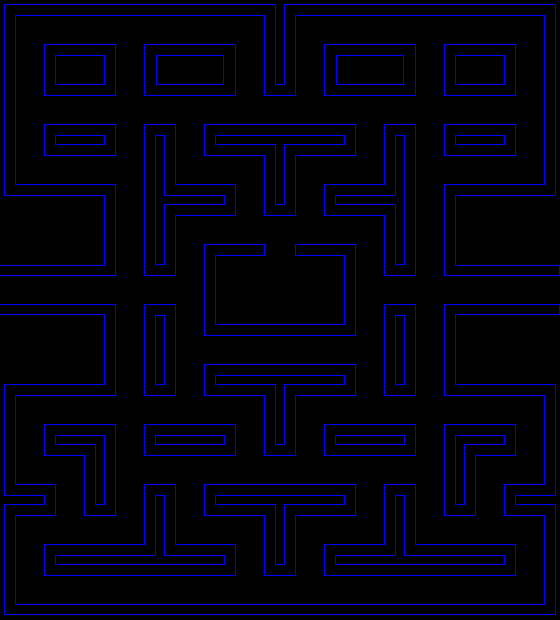
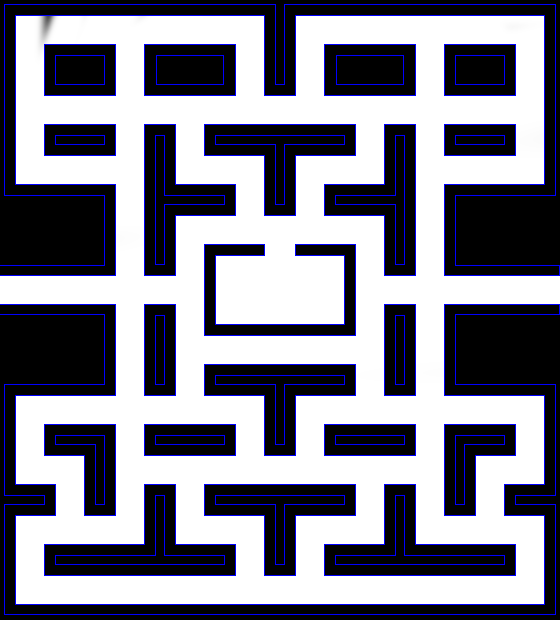
quebrado

diff --git a/MyPacman/Class/player.py b/MyPacman/Class/player.py
@@ -1,4 +1,4 @@
-from pygame import sprite
+from pygame import sprite, mask
 from pygame.math import Vector2 as vec
 from pygame import KEYDOWN,\
     K_LEFT, K_a, K_RIGHT, K_d, K_UP, K_w, K_DOWN, K_s
@@ -13,22 +13,21 @@ class player_pacman(sprite.Sprite):
 
         #################################
         # /player's absolute variables\ #
-        self.image = img.load(image).convert_alpha()
+        self.image = img.load(image).convert()
         self.image = tfm.scale(self.image, (17, 17))
+
+        self.mask = mask.from_surface(self.image)
 
         self.rect = self.image.get_rect()
 
         self.grid_pos: vec = v.PLAYER_START_POS
-        self.direction: vec = vec(-1, 0)
-
         self.pix_pos = self.get_pix_pos()
-        self.move_: bool = False
+
+        self.direction: vec = vec(1, 0)
 
         self.Stored_direction = None
         self.able_to_move: bool = True
-
-        self.rect[0] = self.pix_pos.x
-        self.rect[1] = self.pix_pos.y
+        self.togle_to_move = True
         # \player's absolute variables/ #
         #################################
 
@@ -40,6 +39,7 @@ class player_pacman(sprite.Sprite):
             (self.pix_pos[1] + v.WIDTH_CELL // 2) // v.WIDTH_CELL
 
         # Add current player position
+        self.move_update()
         self.rect[0] = self.pix_pos.x
         self.rect[1] = self.pix_pos.y
 
@@ -61,33 +61,24 @@ class player_pacman(sprite.Sprite):
     def move(self, direction):
         self.Stored_direction = direction
 
-    def move_update(self, wall_collision: list):
+    def move_update(self):
         # Character direction
-        if self.able_to_move:
+        if self.togle_to_move:
             self.pix_pos += self.direction
+        else:
+            self.move(vec(0, 1))
 
-        if self.time_to_move('x'):  # Move back or forward
-            if self.Stored_direction is not None:
-                self.direction = self.Stored_direction
-            self.able_to_move = self.can_move(wall_collision)
-        if self.time_to_move('y'):  # Move up or down
-            if self.Stored_direction is not None:
-                self.direction = self.Stored_direction
-            self.able_to_move = self.can_move(wall_collision)
+        self.time_to_move()
 
-    def can_move(self, wall_collision: list) -> bool:
-        for wall in wall_collision:  # Makes the collision with the wall
-            if vec(self.grid_pos + self.direction) == wall:
-                return False
-        return True
-
-    def time_to_move(self, dirc: str) -> bool:  # Check if the player can move
-        if (self.pix_pos.x + 40 // 2) % v.WIDTH_CELL == 1 and dirc == 'x':
+    def time_to_move(self):  # Check if the player can move
+        if (self.pix_pos.x + 40 // 2) % v.WIDTH_CELL == 1:
             if self.direction == vec(1, 0) or self.direction == vec(-1, 0):
-                return True
-        if (self.pix_pos.y + 40 // 2) % v.HEIGHT_CELL == 1 and dirc == 'y':
+                if self.Stored_direction is not None:
+                    self.direction = self.Stored_direction
+        if (self.pix_pos.y + 40 // 2) % v.HEIGHT_CELL == 1:
             if self.direction == vec(0, 1) or self.direction == vec(0, -1):
-                return True
+                if self.Stored_direction is not None:
+                    self.direction = self.Stored_direction
 
     def get_pix_pos(self) -> vec:  # Grid pos player
         return vec(self.grid_pos.x * v.WIDTH_CELL + 2,

diff --git a/MyPacman/Oh_Pacman.py b/MyPacman/Oh_Pacman.py
@@ -1,4 +1,5 @@
 import pygame
+from pygame.sprite import groupcollide
 import vars as v
 
 import Class.texts as t
@@ -84,6 +85,7 @@ class World:  # A World l
     def World_objcts(self):
         # Add in World
         self.Itens_world['Sprites_world'] = pygame.sprite.Group()
+        self.Itens_world['Background_world'] = pygame.sprite.Group()
 
         self.World_time()
 
@@ -139,6 +141,8 @@ class World:  # A World l
             self.World_pacman_update()
             # \absolute defs of the game/ #
             #####################################
+
+            self.Itens_world['Background_world'].update()
 
             pygame.display.flip()
             pygame.display.update()
@@ -317,7 +321,7 @@ class World:  # A World l
                     wall, self.Entities_world['Background'].wall_collision)
 
                 # Add to group sprites world
-                self.Itens_world['Sprites_world'].add(
+                self.Itens_world['Background_world'].add(
                     self.Entities_world['Background'])
                 self.Itens_world['Sprites_world'].add(
                     self.Entities_world['Pacman'])
@@ -327,8 +331,6 @@ class World:  # A World l
     def World_pacman_update(self):
         match self.Itens_world['widget_world']:
             case 'PlayGame':
-                self.Entities_world['Pacman'].move_update(
-                    self.Entities_world['Background'].wall_collision)
 
                 self.Entities_world['Pacman'].eat_coin(
                     self.Entities_world['Background'].on_coin(
@@ -336,10 +338,19 @@ class World:  # A World l
                         self.Entities_world['Pacman'].direction),
                     self.Entities_world['Background'].coins)
 
+                if pygame.sprite.groupcollide(
+                    self.Itens_world['Background_world'],
+                    self.Itens_world['Sprites_world'],
+                        False, False, pygame.sprite.collide_mask):
+                    self.Entities_world['Pacman'].togle_to_move = False
+                else:
+                    self.Entities_world['Pacman'].togle_to_move = True
+
     def World_SpritsDraw(self):
         # Add/set draw about sprits
         self.screen.fill(v.BACKGROUND)
         self.Itens_world['Sprites_world'].draw(self.screen)
+        self.Itens_world['Background_world'].draw(self.screen)
 
 
 ###################

diff --git a/MyPacman/Class/background.py b/MyPacman/Class/background.py
@@ -1,4 +1,4 @@
-from pygame import sprite, image, draw
+from pygame import sprite, image, draw, mask
 from pygame.math import Vector2 as vec
 
 import vars as v
@@ -10,7 +10,9 @@ class background(sprite.Sprite):
 
         ###################################
         # /absolute background variables\ #
-        self.image = image.load(images).convert()
+        self.image = image.load(images).convert_alpha()
+
+        self.mask = mask.from_surface(self.image)
 
         self.rect = self.image.get_rect()
         self.rect.center = (v.WIDTH / 2, v.HEIGHT / 2)

diff --git a/MyPacman/Class/enemy.py b/MyPacman/Class/enemy.py
@@ -19,9 +19,6 @@ class enemy(sprite.Sprite):
 
         self.rect = self.image.get_rect()
         self.pix_pos = self.get_pix_pos()
-
-        self.rect[0] = self.pix_pos.x
-        self.rect[1] = self.pix_pos.y
         # \player's absolute variables/ #
         #################################
 

diff --git a/MyPacman/vars.py b/MyPacman/vars.py
@@ -55,7 +55,7 @@ WIDTH_CELL: int | float = WIDTH // 28
 HEIGHT_CELL: int | float = HEIGHT // 30
 
 # $ Player $ #
-PLAYER_START_POS: vec = vec(-1, 1)
+PLAYER_START_POS: vec = vec(1, 1)
 ENEMY_START_POS: vec = vec(1, 1)
 
 # %% Player location %% #
